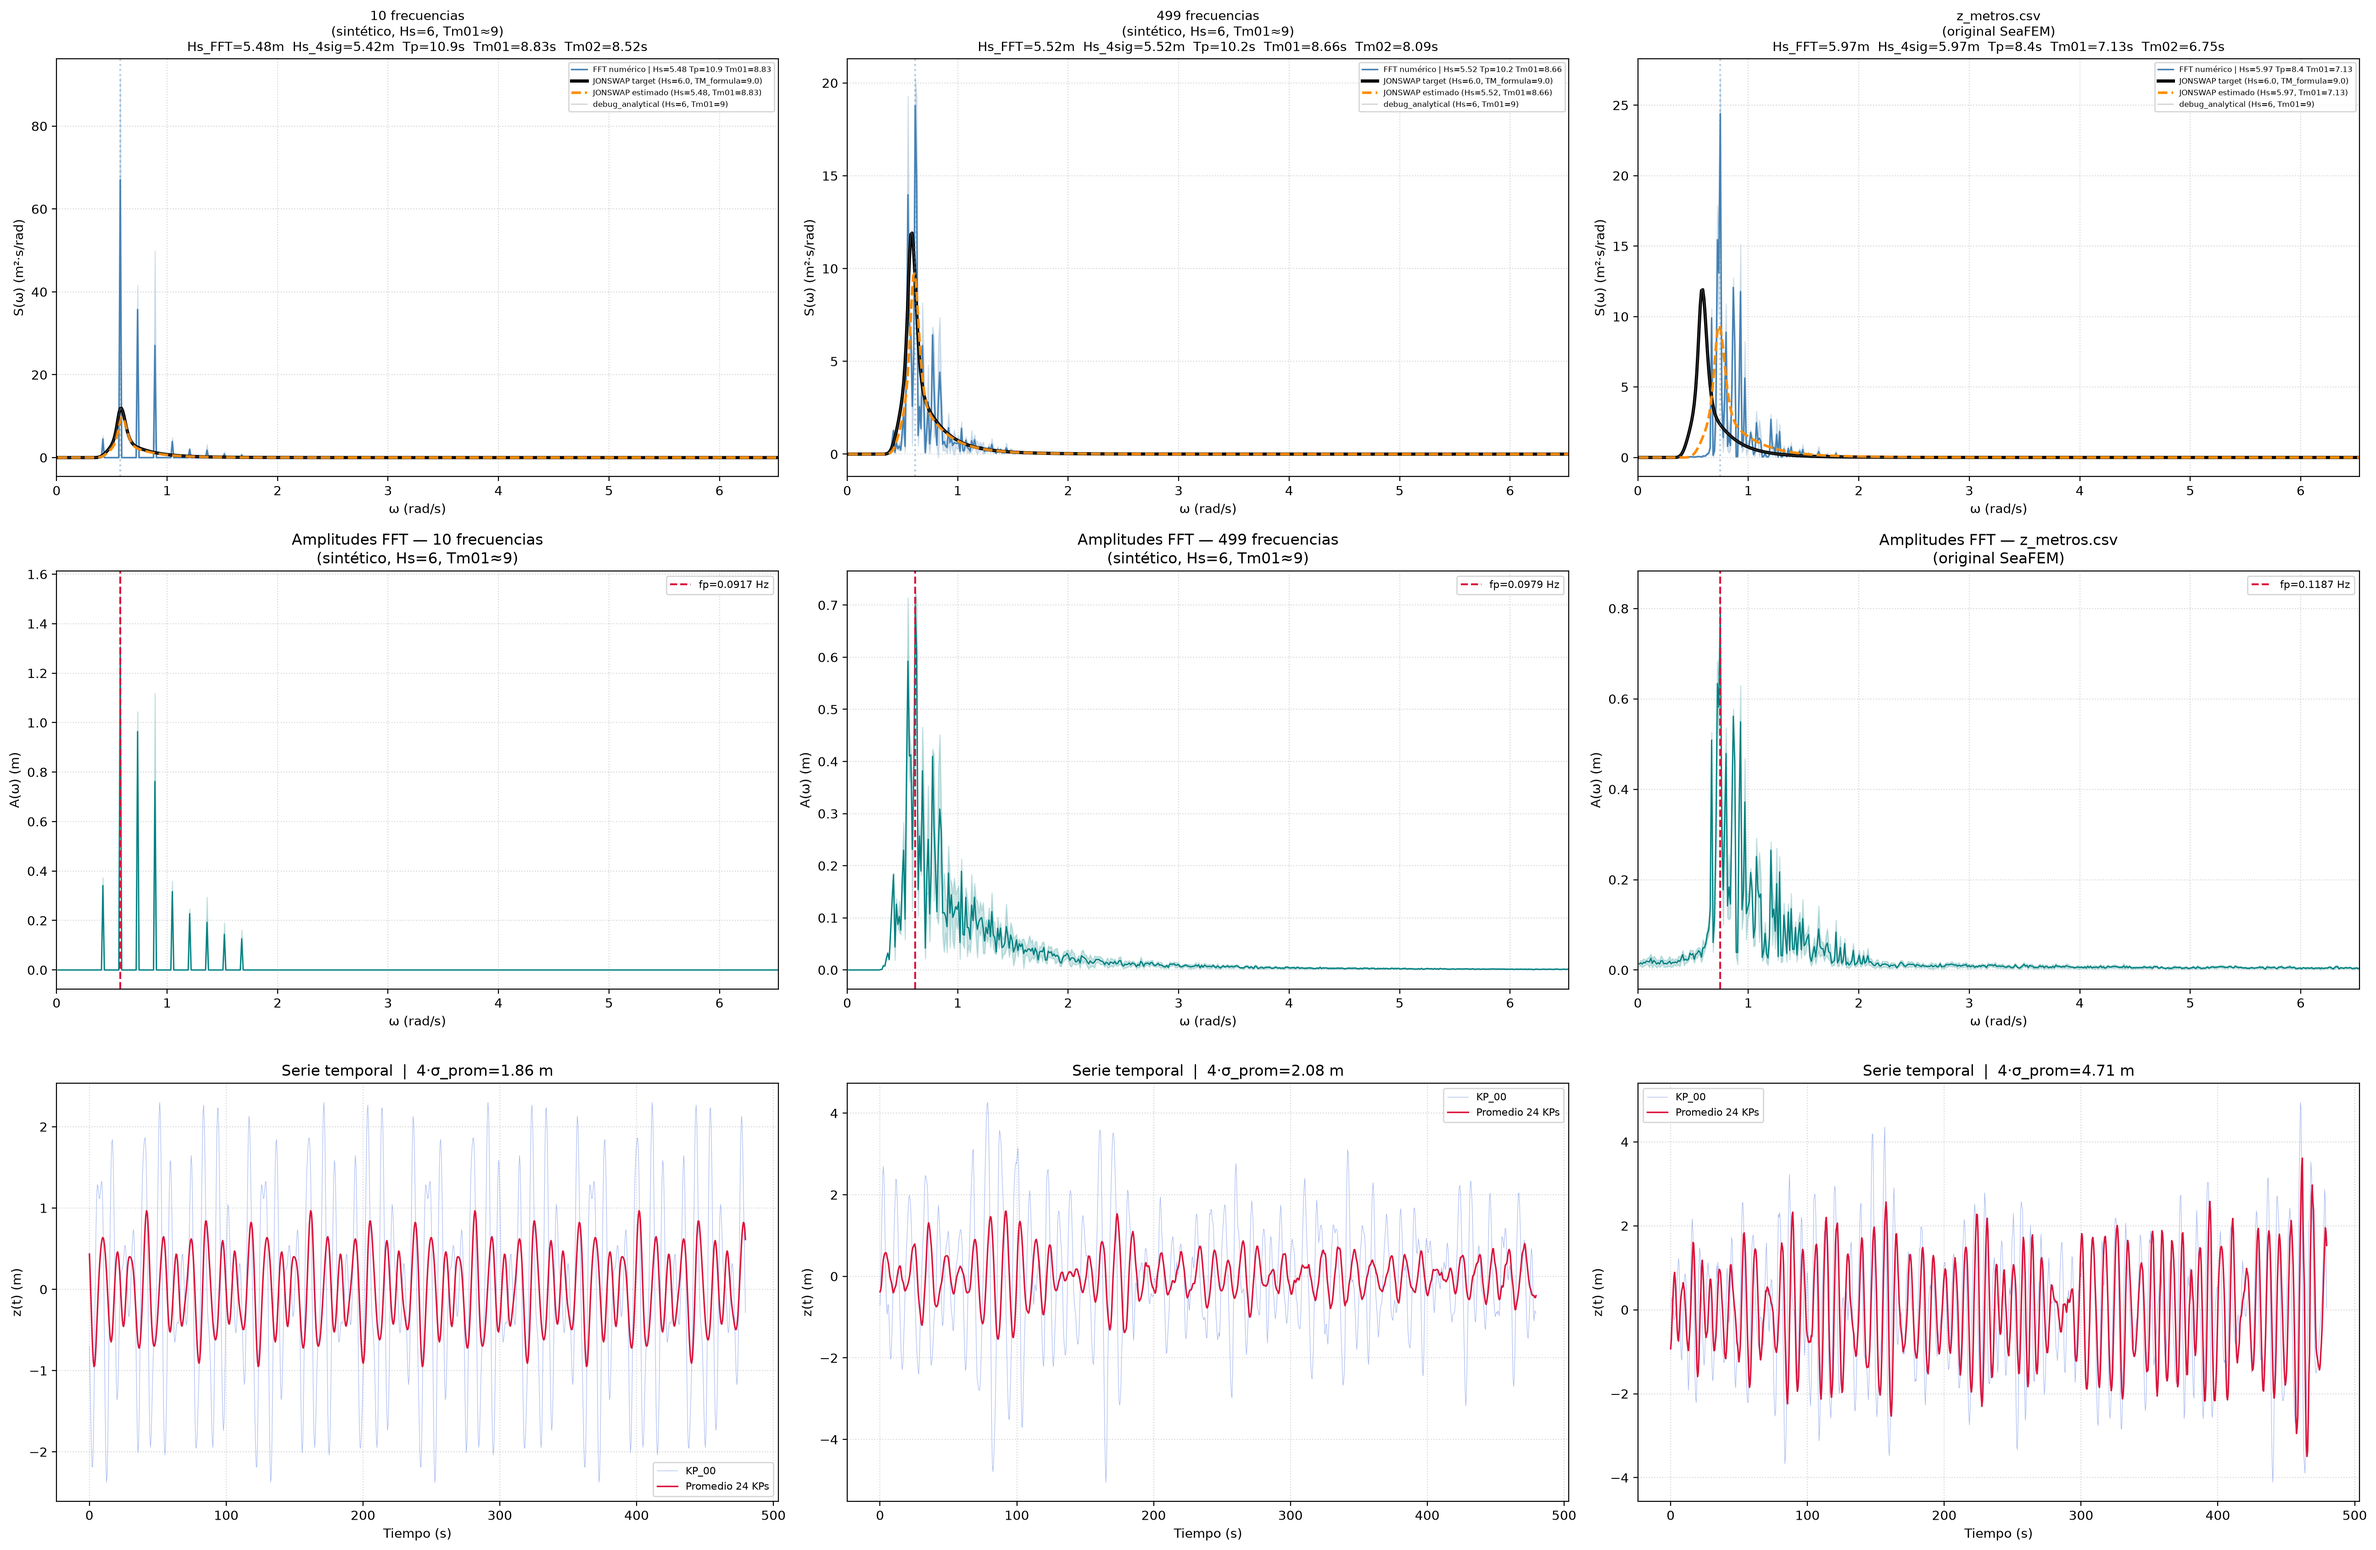
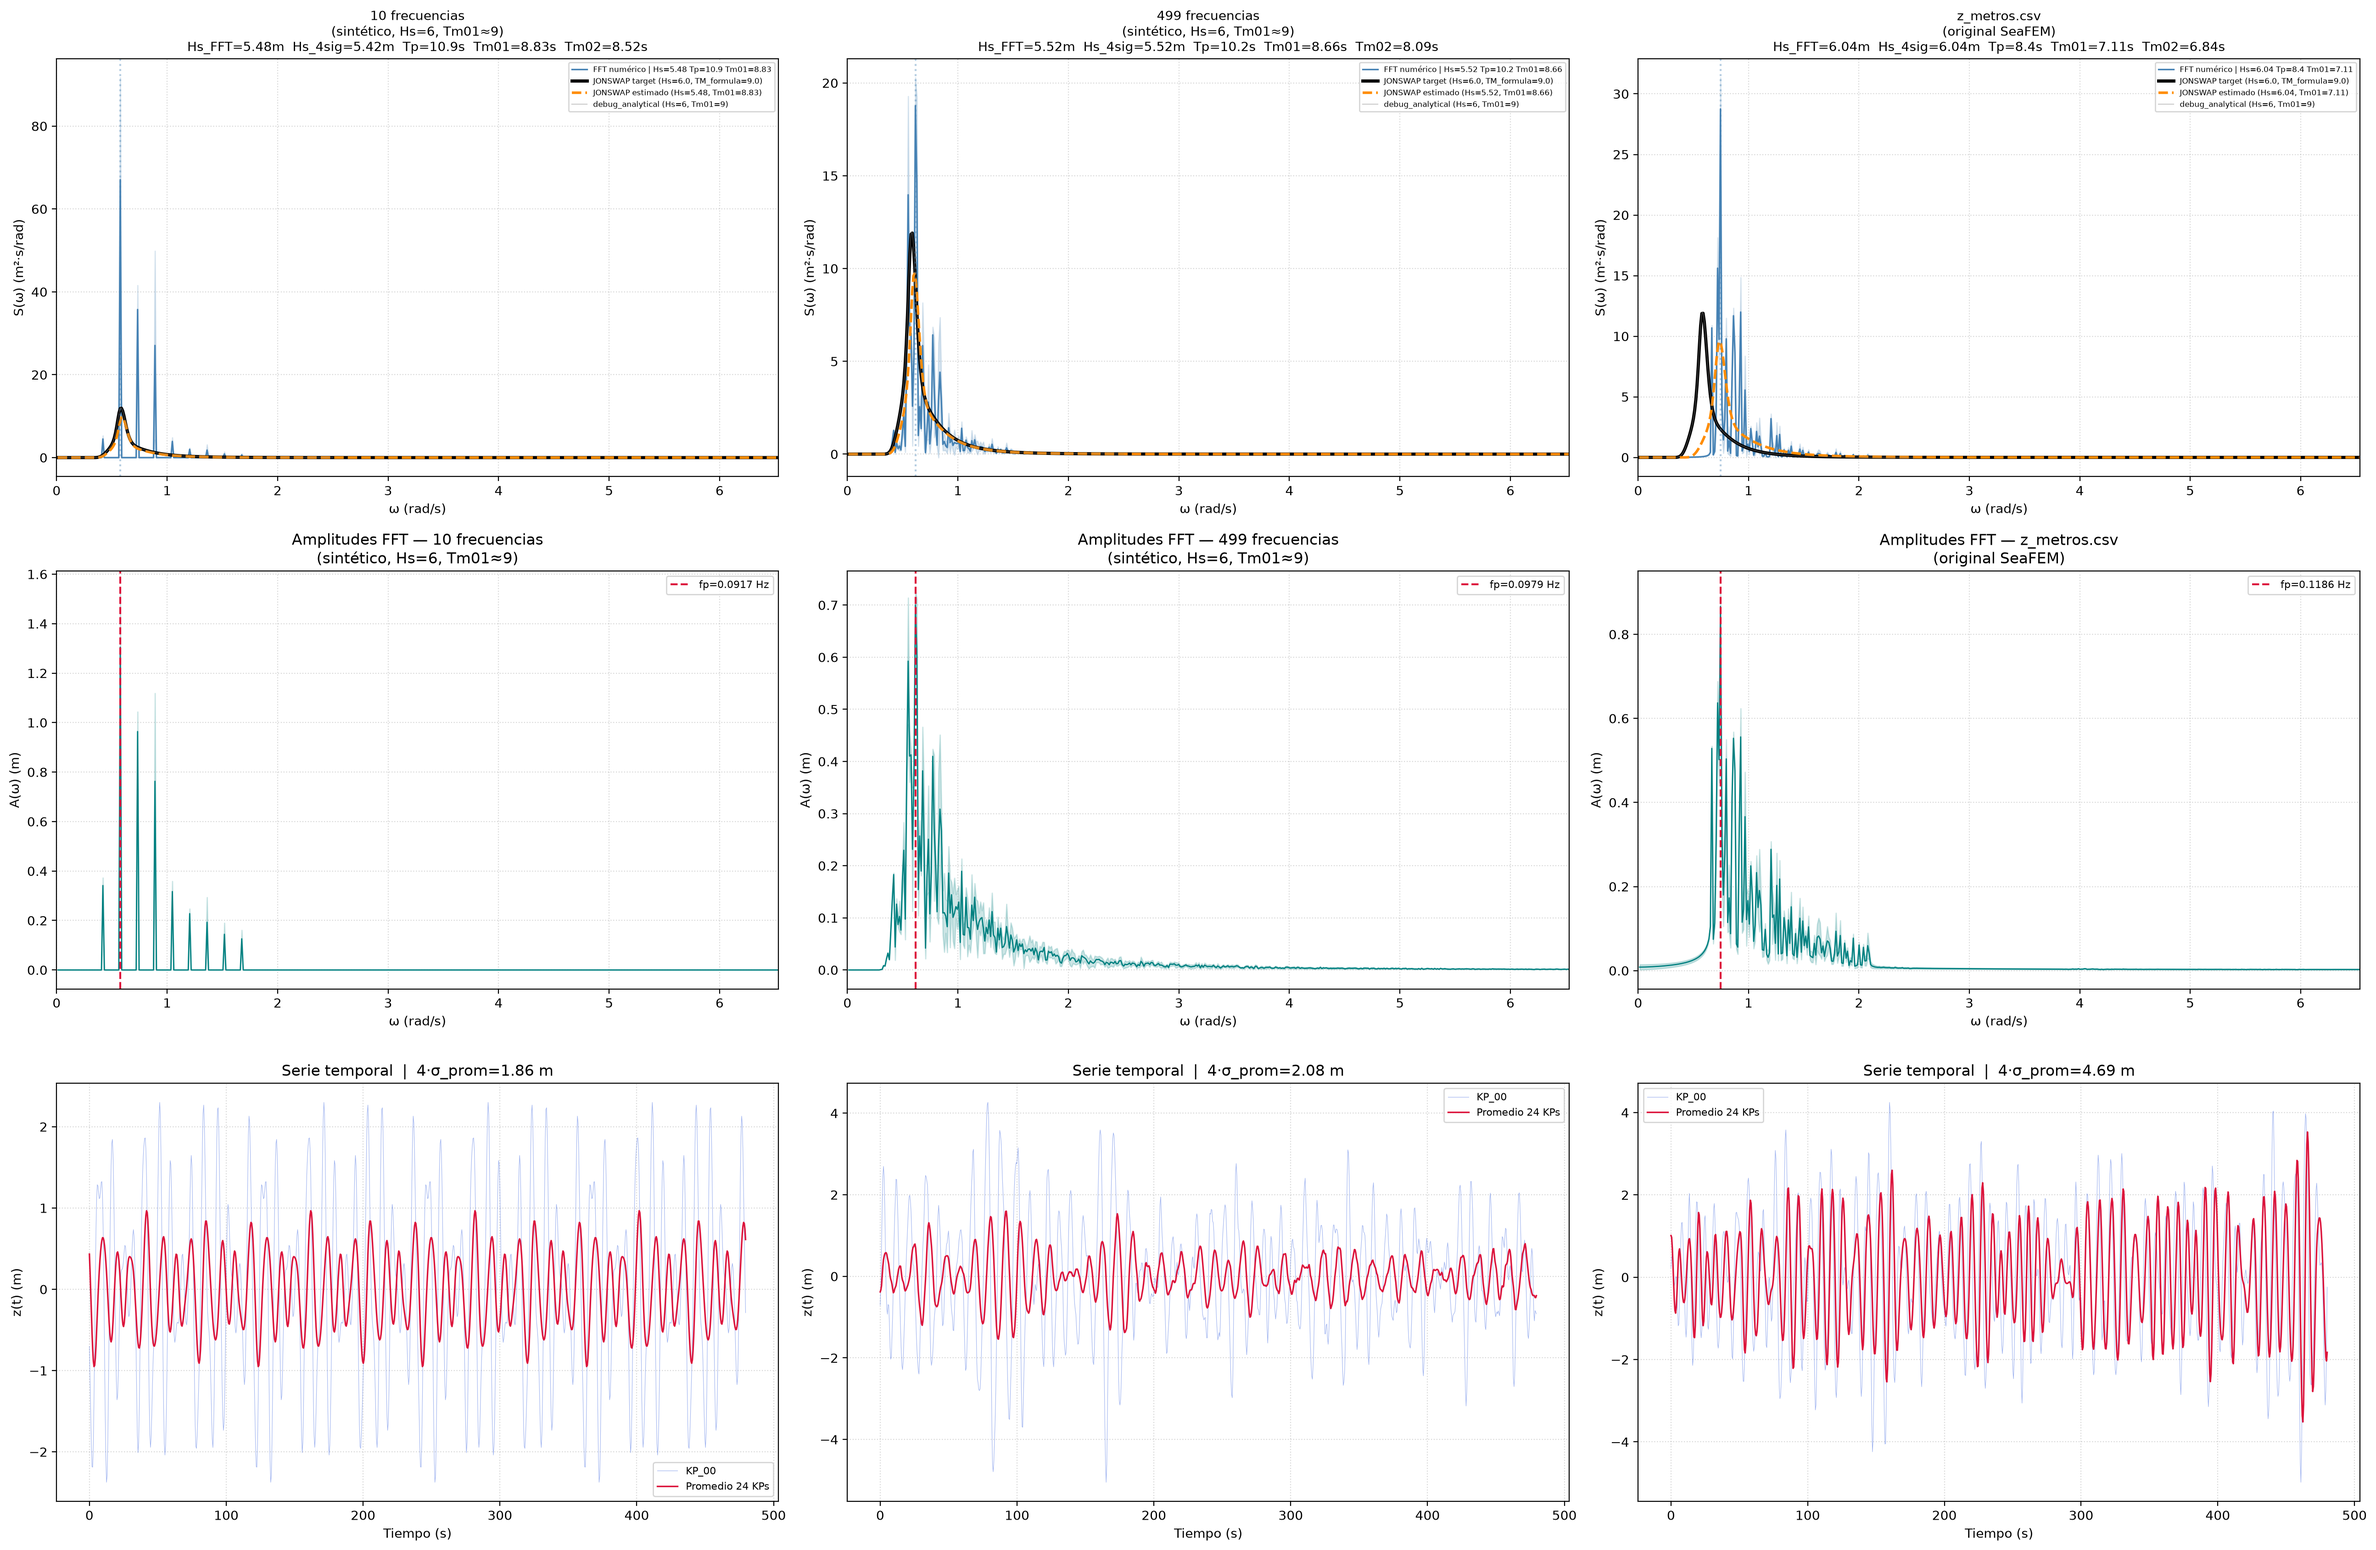
Clean comparison outputs and finalize plotting

diff --git a/debug_jonswap.py b/debug_jonswap.py
@@ -1,0 +1,95 @@
+"""
+Herramienta de depuración para probar las fórmulas JONSWAP sobre alturanodos.csv.
+Se puede ejecutar directamente desde VS Code para revisar los parámetros estimados.
+"""
+
+import os
+import numpy as np
+import pandas as pd
+import matplotlib.pyplot as plt
+
+import config
+from modules import lectura_gt
+from modules.energia_gt_alturanodos import jonswap_8_12, jonswap_8_11
+
+
+def estimar_parametros_kp(z, delta_t, filtro_hz):
+    z = np.asarray(z, dtype=float)
+    z = z - np.mean(z)
+    n = len(z)
+
+    fft_vals = np.fft.fft(z)
+    freqs = np.fft.fftfreq(n, d=delta_t)
+    idx_pos = np.where(freqs > 0)[0]
+    freqs_pos = freqs[idx_pos]
+    amps = (2.0 / n) * np.abs(fft_vals[idx_pos])
+
+    idx_filt = np.where(freqs_pos <= filtro_hz)[0]
+    freqs_fil = freqs_pos[idx_filt]
+    amps_fil = amps[idx_filt]
+
+    omega_fil = 2.0 * np.pi * freqs_fil
+    E_fil = 0.5 * amps_fil**2
+    dw_fil = np.diff(omega_fil)
+    dw_fil = np.append(dw_fil, dw_fil[-1])
+    S_kp = E_fil / dw_fil
+
+    suma_A2 = np.sum(amps_fil**2)
+    hs = np.sqrt(8.0 * suma_A2)
+    m0 = np.trapezoid(S_kp, omega_fil)
+    m1 = np.trapezoid(omega_fil * S_kp, omega_fil)
+    m2 = np.trapezoid((omega_fil**2) * S_kp, omega_fil)
+
+    tm01 = 2 * np.pi * m0 / m1 if m1 > 0 else 0.0
+    tm02 = np.sqrt(m0 / m2) if m2 > 0 else 0.0
+
+    idx_pico = np.argmax(amps_fil)
+    f_pico = freqs_fil[idx_pico]
+    tp = 1.0 / f_pico if f_pico > 0 else 0.0
+
+    return hs, tp, tm01, tm02, freqs_fil, omega_fil, S_kp
+
+
+def generar_debug_jonswap(output_dir=None, mostrar=False):
+    os.makedirs(output_dir or config.DIR_SALIDA_ENERGIA_GT, exist_ok=True)
+
+    print("Cargando alturanodos.csv para depuración JONSWAP...")
+    z_all, _ = lectura_gt.cargar_z_gt()
+    z_all = z_all.astype(float)
+
+    resultados = []
+    etiquetas = lectura_gt.etiquetas_gt()
+
+    for kp_id in range(z_all.shape[1]):
+        hs, tp, tm01, tm02, freqs_fil, omega_fil, S_kp = estimar_parametros_kp(
+            z_all[:, kp_id], config.DELTA_T, config.FILTRO_FREC_MAX_HZ
+        )
+        resultados.append((etiquetas[kp_id], hs, tp, tm01, tm02))
+
+        omega_teo = np.linspace(omega_fil.min(), omega_fil.max(), 600)
+        s_8_12 = jonswap_8_12(omega_teo, hs, tm01)
+        s_8_11 = jonswap_8_11(omega_teo, hs, tp)
+
+        plt.figure(figsize=(8, 4))
+        plt.plot(omega_teo, s_8_12, color='black', linewidth=2, label='JONSWAP 8-12')
+        plt.plot(omega_teo, s_8_11, color='gray', linewidth=1.5, linestyle='--', label='JONSWAP 8-11')
+        plt.plot(omega_fil, S_kp, color='teal', linewidth=1.5, label=f'FFT {etiquetas[kp_id]}')
+        plt.xlim(0, 3.5)
+        plt.grid(True, linestyle=':', alpha=0.5)
+        plt.title(f'Debug JONSWAP - {etiquetas[kp_id]}')
+        plt.xlabel('Frecuencia angular, w (rad/s)')
+        plt.ylabel('S(w) (m^2 s/rad)')
+        plt.tight_layout()
+        out_file = os.path.join(output_dir or config.DIR_SALIDA_ENERGIA_GT, f'debug_jonswap_{kp_id:02d}.png')
+        plt.savefig(out_file, dpi=150, bbox_inches='tight')
+        plt.close()
+
+    df = pd.DataFrame(resultados, columns=['keypoint', 'Hs_m', 'Tp_s', 'Tm01_s', 'Tm02_s'])
+    df.to_csv(os.path.join(output_dir or config.DIR_SALIDA_ENERGIA_GT, 'debug_jonswap_resumen.csv'), index=False, sep=';')
+
+    print(f"Resumen guardado en: {output_dir or config.DIR_SALIDA_ENERGIA_GT}")
+    return df
+
+
+if __name__ == '__main__':
+    generar_debug_jonswap()

diff --git a/main.py b/main.py
@@ -18,6 +18,7 @@ import os
 import numpy as np
 
 import config
+import modules
 from modules import (
     energia_gt_alturanodos,
     energiapred,
@@ -42,13 +43,13 @@ isPredictionRequired       = False   # corre YOLO sobre train/val/test
 isVideoRequired             = False   # genera vídeos superpuesto + subplot
 isPixelToMetrosRequired    = False   # convierte labels predichos -> z_metros.csv
 isFFTPredRequired          = False   # FFT 1D + 3D de la PREDICCIÓN
-isFFTGTRequired            = False   # FFT 1D + 3D del GROUNDTRUTH
+isFFTGTRequired            = True   # FFT 1D + 3D del GROUNDTRUTH
 isBeamformingRequired      = False  # activar beamforming
 isBeamformingPred          = False  # aplicar sobre prediccion
 isBeamformingGT            = False # aplicar sobre GT (alturanodos.csv)
 isComparacionGTvsPredRequired = False  # genera la figura apilada GT vs Predicción
 isEnergiaGTRequired        = False   # gráficas E vs A y S(w) vs w del GT
-isEnergia_GT_alturanodos   = True # gráficas E vs A y S(w) vs w del GT (alturanodos.csv)
+isEnergia_GT_alturanodos   = False # gráficas E vs A y S(w) vs w del GT (alturanodos.csv)
 isComparacionGTSpecVsGTNodos = False #comparacion D.Polar de GT(spectrum) y GT (alturanodos)
 isenergiapred              = False # gráficas E vs A y S(w) vs w de la PREDICCIÓN
 
